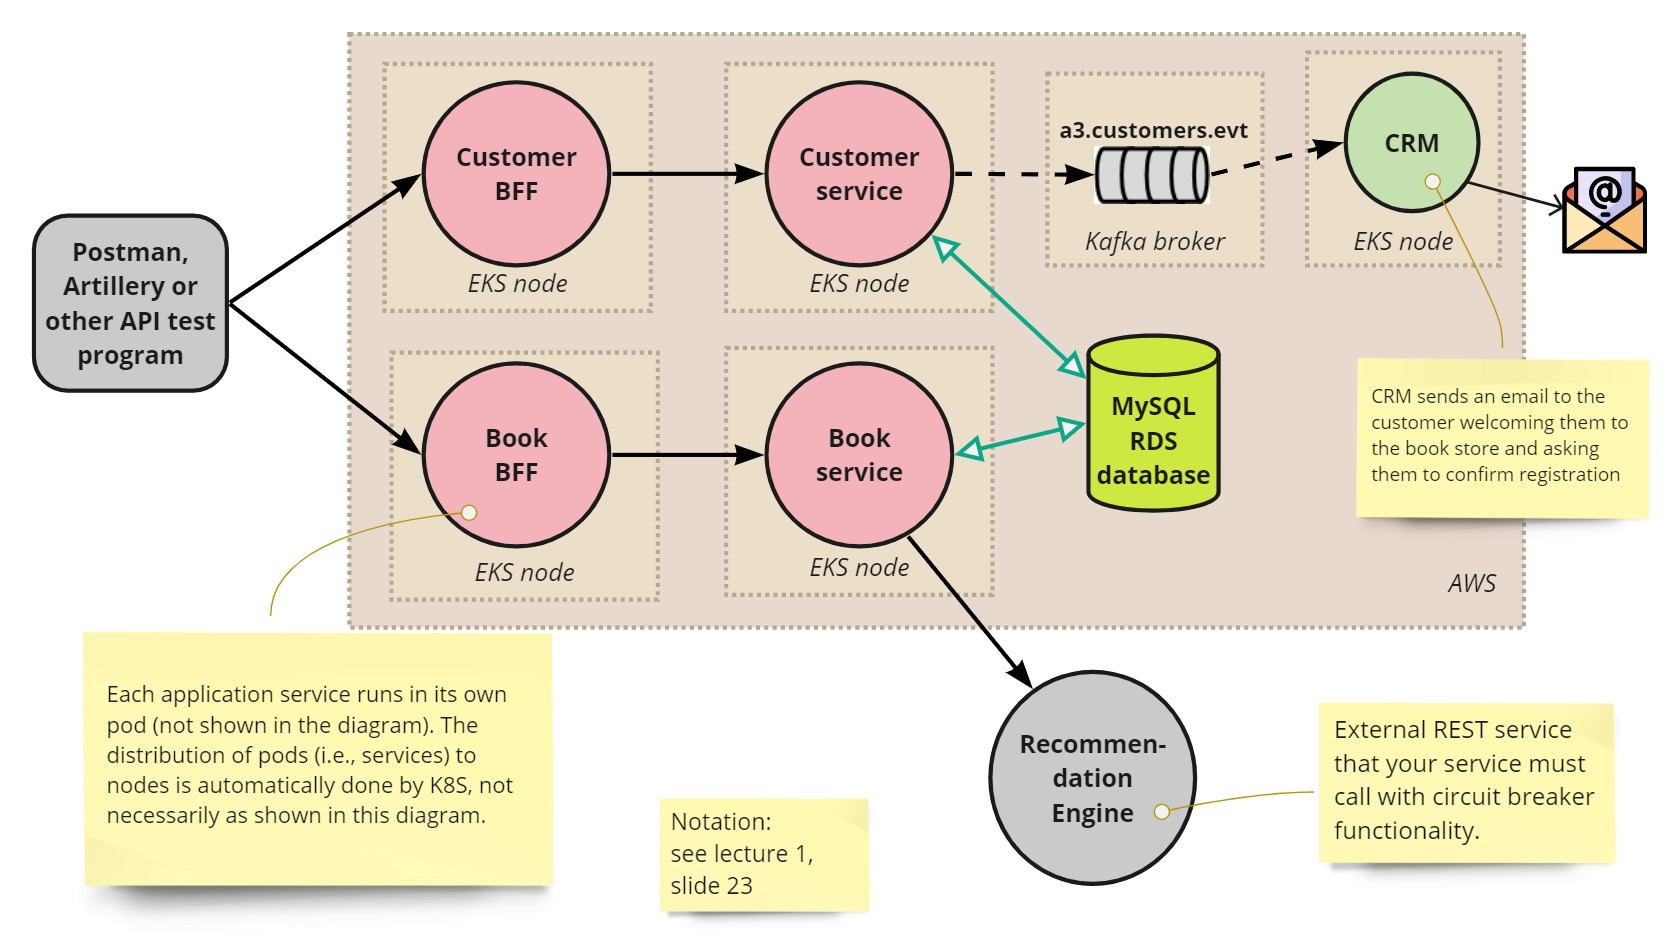
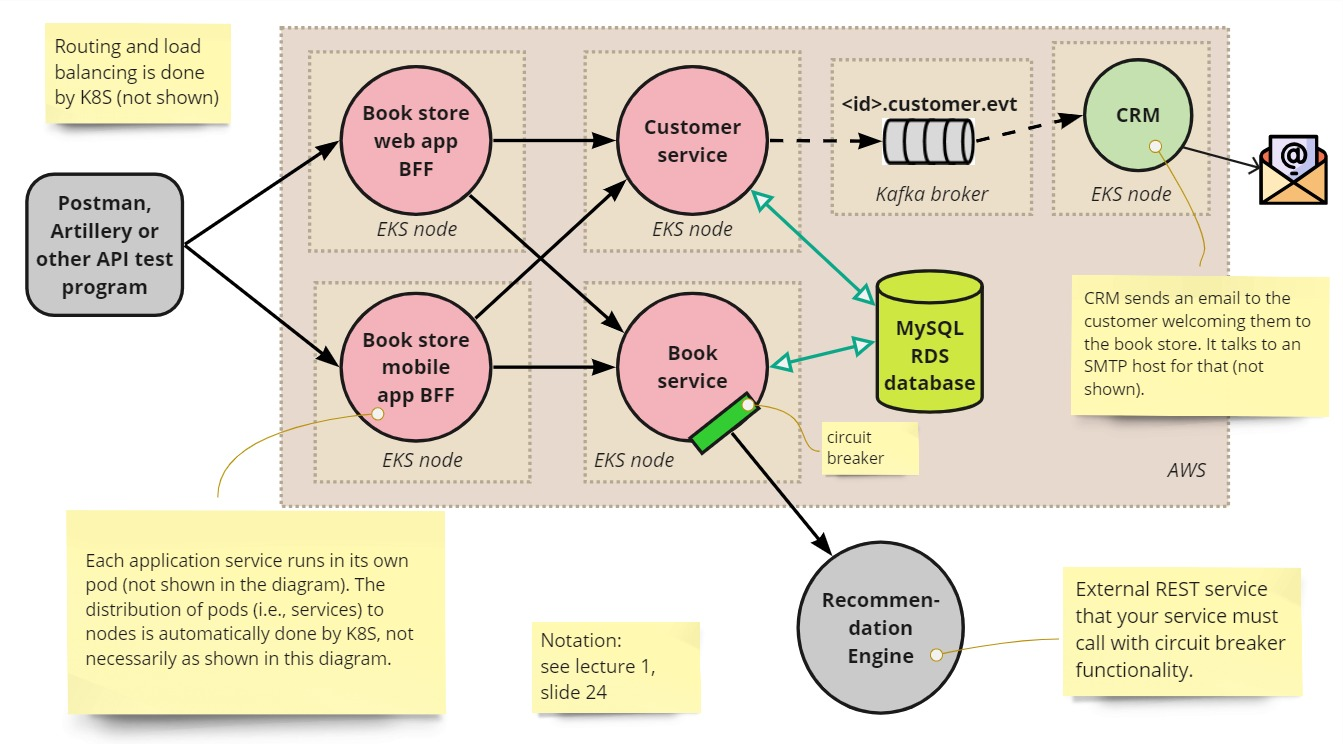
new A3 AWS deploy diagram, A3 CF clean up

diff --git a/README.md b/README.md
@@ -24,7 +24,8 @@ Example of application design that could be deployed to this infrastructure.
 
 ## Multiple EC2 instances, routing based on HTTP header, BFFs, and RDS cluster
 
-The [CF template](/templates/CF-A2-cmu.yml). (The routing rules might be incomplete, but you can easily fix them.)
+The [CF template](/templates/CF-A2-cmu.yml). (The routing rules are incomplete on purpose. 
+It's a challenge to you to fix them based on the application design further below.)
 
 AWS deployment diagram (using [AWS notation](https://aws.amazon.com/architecture/icons/)).
 
@@ -51,7 +52,8 @@ The [CF template](/templates/CF-A3-cmu.yml).
 
 AWS deployment diagram (using [AWS notation](https://aws.amazon.com/architecture/icons/)).
 
-TO-DO
+![AWS deployment diagram](/images/a3-deployment-view.jpg)
+
 
 Example of application design that could be deployed to this infrastructure.
 
